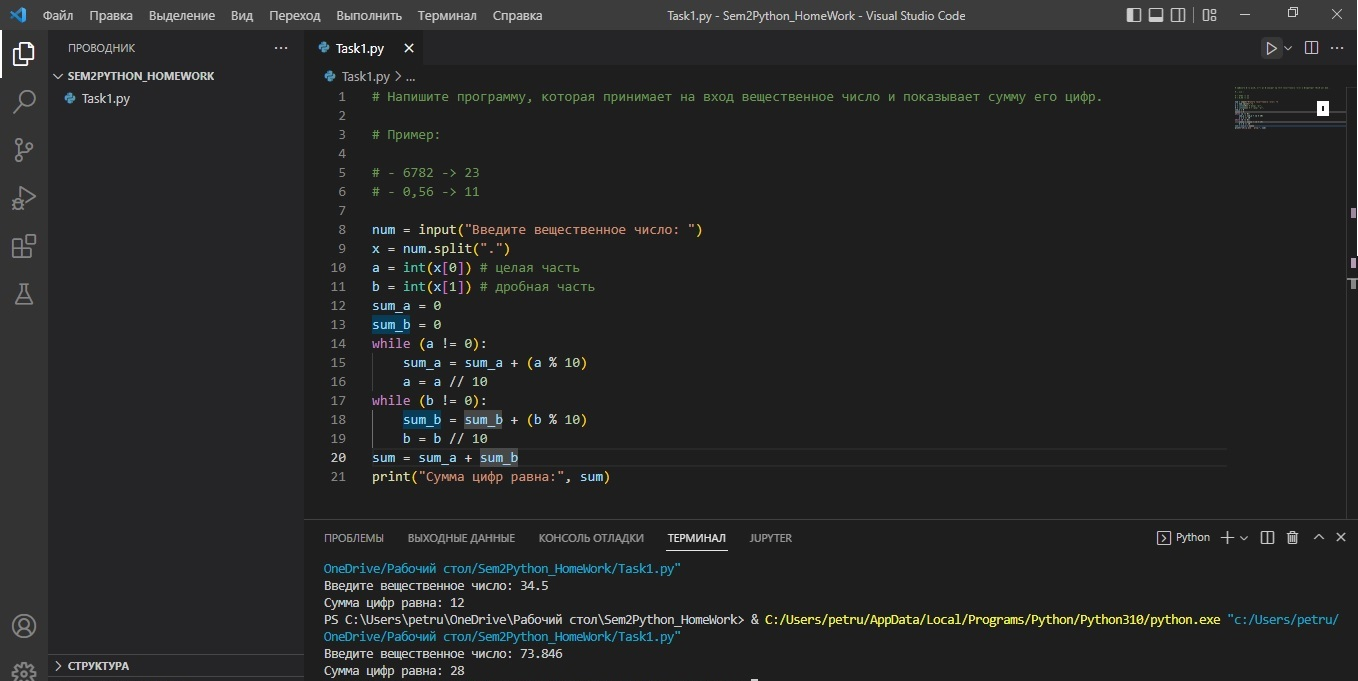
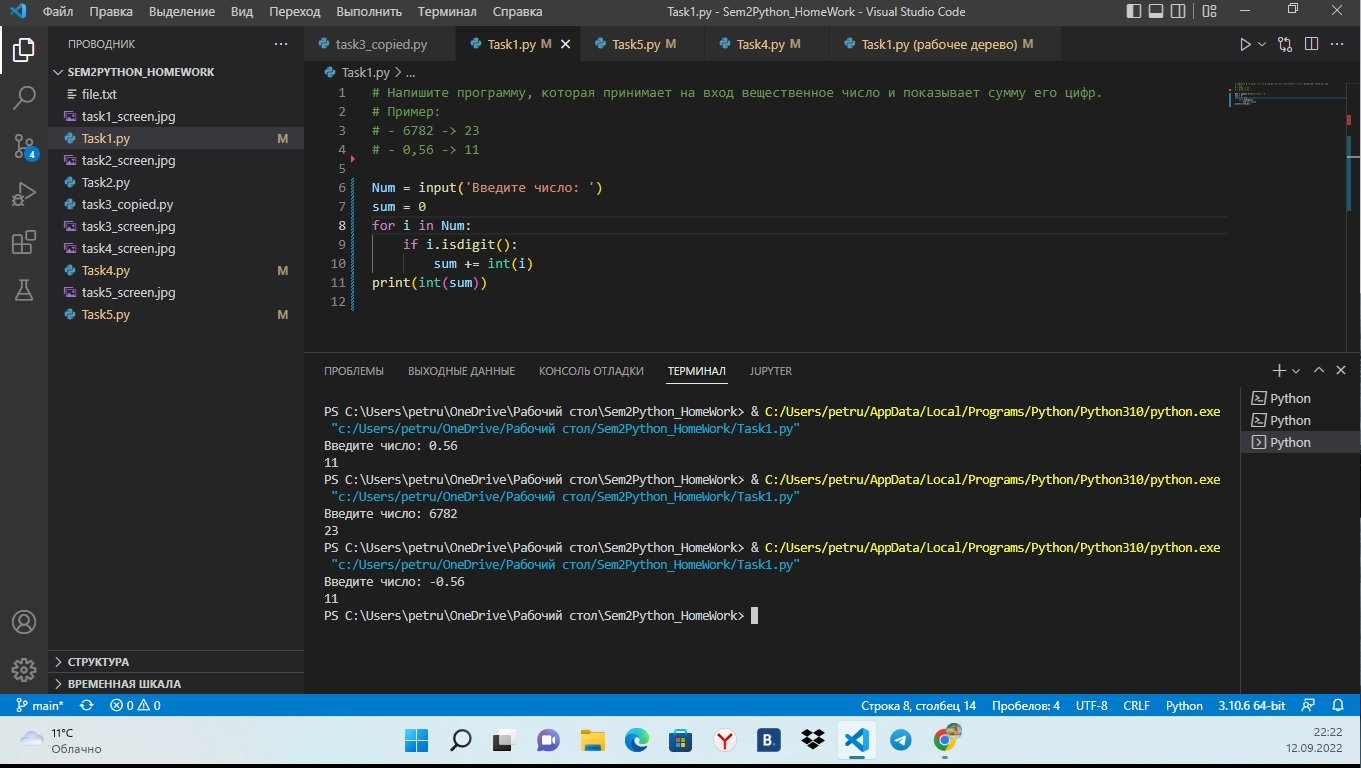
tsaks

diff --git a/Task4.py b/Task4.py
@@ -2,25 +2,26 @@
 # Найдите произведение элементов на указанных позициях. 
 # Позиции хранятся в файле file.txt в одной строке одно число.
 
-# N = int(input('Введите N: '))
-# list1 = []
+N = int(input('Введите N: '))
+list1 = []
 
-# for i in range(-N, N+1):
-#     list1.append(i)
-# print(list1)
+for i in range(-N, N+1):
+    list1.append(i)
+print(list1)
 
-# with open('file.txt', "w") as file:
-#     file.write('1 \n')
-#     file.write('3 \n')
-#     file.write('6 \n')
-#     file.write('7 \n')
-#     file.write('9 \n')
+with open('file.txt', "w") as file:
+    file.write('1 \n')
+    file.write('3 \n')
+    file.write('4 \n')
+    file.write('-2 \n')
+    file.write('-1 \n')
+file.close()
 
-# positions = 'file.txt'
-# file = open(positions, 'r')
+positions = 'file.txt'
+file = open(positions, 'r')
 
-# mult_pos = 1
-# for string in file:
-#     pos = int(string)
-#     mult_pos *=list1[pos]
-# print(mult_pos)
+mult_pos = 1
+for string in file:
+    pos = int(string)
+    mult_pos *=list1[pos]
+print(mult_pos)

diff --git a/Task1.py b/Task1.py
@@ -2,19 +2,10 @@
 # Пример:
 # - 6782 -> 23
 # - 0,56 -> 11
-# ![text] (name_file.jpg)
 
-# num = input("Введите вещественное число: ")
-# x = num.split(".")
-# a = int(x[0]) # целая часть
-# b = int(x[1]) # дробная часть
-# sum_a = 0
-# sum_b = 0
-# while (a != 0): 
-#     sum_a = sum_a + (a % 10)
-#     a = a // 10
-# while (b != 0):
-#     sum_b = sum_b + (b % 10)
-#     b = b // 10
-# sum = sum_a + sum_b
-# print("Сумма цифр равна:", sum)
+# Num = input('Введите число: ')
+# sum = 0
+# for i in Num:
+#     if i.isdigit():
+#         sum += int(i)
+# print(int(sum))
